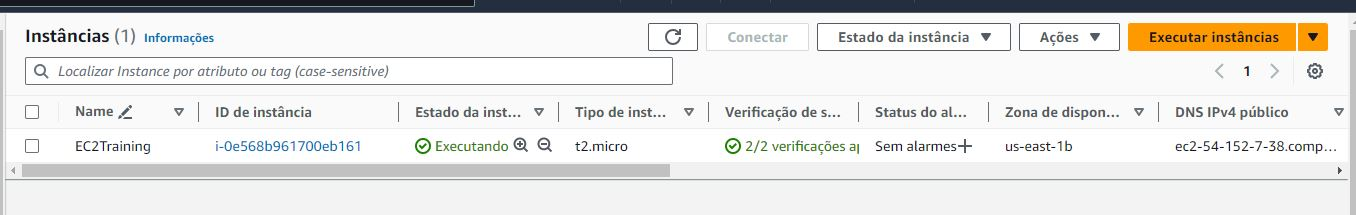
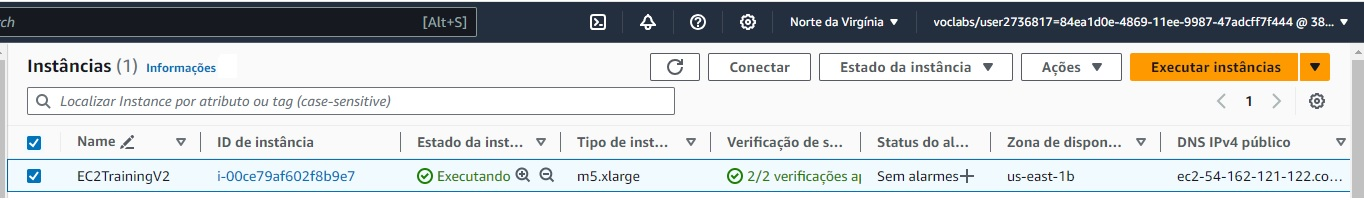
version 2 of project of udacity

diff --git a/README.md b/README.md
@@ -15,7 +15,7 @@ In this project, you will complete the following steps:
 # Step 1: Training and deployment on Sagemaker
 - Creation of the instance
 ![Alt text](/images/instance.jpg "Creation of instance")
-No need for a greater instance the train will be done separatelly by a training job.
+I have chosen the ml.t3.medium instance because it is enough to run the notebook properly, balancing well cost and performance.
 
 - Upload to the S3 bucket
 ![Alt text](/images/bucket.jpg "Creation of the bucket")
@@ -42,7 +42,9 @@ As it is possible to see, it is multi-instance because of the 4 logs.
 # Step 2: EC2 Training
 - Creation of EC2
 ![Alt text](/images/ec2_creation.jpg "EC2 Instance")
-It was chosen the t2.micro because of the budget constraint (t2.micro is free for until a certain usage) and no hurry to train the model.
+It was chosen the m5.xlarge becauce it is needed a larger instance to train the model than the one that it was used to run the notebook in order to have a better time performance and less bottleneck, and not being so expensive as other instances.
+Notebook - ml.t3.medium - **vCPU**: 2, **Memory**:4 GiB **Price**: ~0,05 USD
+EC2 for Training the Model - m5.xlarge - **vCPU**: 4, **Memory**:16 GiB **Price**: ~0,19 USD
 
 - Artifact Model
 ![Alt text](/images/artifact_model_in_ec2.jpg "Artifact Model in EC2")
